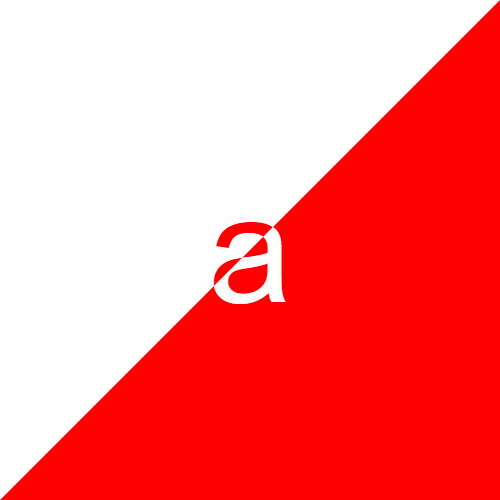
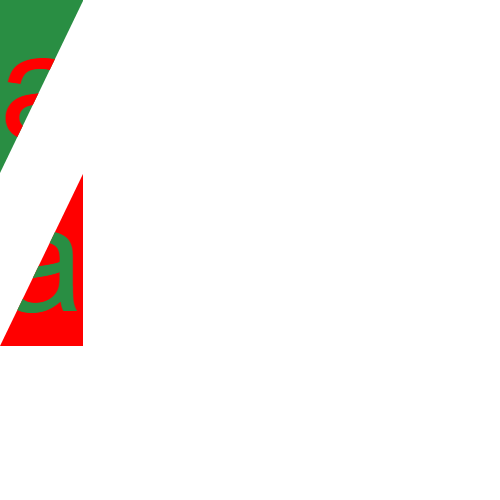
Working prototype with table and fonts

diff --git a/public/index.html b/public/index.html
@@ -5,53 +5,107 @@
     
   </head>
   <body style="display: inline-block;">
+    
     <div id="cover" style="float: left;">
-        <style>
-            body {
-                font-family: Arial, Helvetica, sans-serif;
-            }
-            td{
-              text-align: center;
-              padding: 10px;
-            }
-            #background_square{
-                background-color: blueviolet;
-                color: red;
-                width: 500px;
-                height: 500px;
-                text-align: center;
-                font-size: 150px;
-                position: absolute;
-                z-index: 1;
-                /* clip-path: polygon(0% 0%, 0% 100%, 100% 0%); */
-                /* clip-path: polygon(0 0, 100% 0, 100% 50%, 0 50%); */
-            }
-            
-            #foreground_square{
-                background-color: red;
-                color: blueviolet;
-                width: 500px;
-                height: 250px;
-                text-align: center;
-                font-size: 150px;
-                position: absolute;
-                padding-top: 250px;
-                z-index: 2;
-                /* clip-path: polygon(100% 0, 0% 100%, 100% 100%); */
-                /* clip-path: polygon(0 50%, 100% 50%, 100% 100%, 0% 100%); */
-            }
-            #bsc, #fsc{
-                margin: 0;
-                position: absolute;
-                top: 50%;
-                left: 50%;
-                -ms-transform: translate(-50%, -50%);
-                transform: translate(-50%, -50%);
-            }
-            #form_div{
-                padding-top: 600px;
-            }
-        </style>
+      <style>
+        textarea{
+         height: 500px;
+         width: 500px;
+         font-size: 150px;
+         text-align: center;
+        }
+       .autocomplete {
+         /*the container must be positioned relative:*/
+         position: relative;
+         display: inline-block;
+       }
+       input {
+         border: 1px solid transparent;
+         background-color: #f1f1f1;
+         padding: 10px;
+         font-size: 16px;
+       }
+       input[type=text] {
+         background-color: #f1f1f1;
+         width: 150px;
+       }
+       input[type=submit] {
+         background-color: DodgerBlue;
+         color: #fff;
+       }
+       .autocomplete-items {
+         position: absolute;
+         margin-top: -200px;
+         border: 1px solid #d4d4d4;
+         border-bottom: none;
+         border-top: none;
+         z-index: 199;
+         /*position the autocomplete items to be the same width as the container:*/
+         top: 100%;
+         left: 0;
+         right: 0;
+         width: 100%;
+       }
+       .autocomplete-items div {
+         padding: 10px;
+         cursor: pointer;
+         background-color: #fff;
+         border-bottom: 1px solid #d4d4d4;
+       }
+       .autocomplete-items div:hover {
+         /*when hovering an item:*/
+         background-color: #e9e9e9;
+       }
+       .autocomplete-active {
+         /*when navigating through the items using the arrow keys:*/
+         background-color: DodgerBlue !important;
+         color: #ffffff;
+       }
+                   body {
+                       font-family: Arial, Helvetica, sans-serif;
+                   }
+                   td{
+                     text-align: center;
+                     padding: 10px;
+                   }
+                   #background_square{
+                       background-color: blueviolet;
+                       color: red;
+                       width: 500px;
+                       height: 500px;
+                       text-align: center;
+                       font-size: 150px;
+                       position: absolute;
+                       z-index: 1;
+                       /* clip-path: polygon(0% 0%, 0% 100%, 100% 0%); */
+                       /* clip-path: polygon(0 0, 100% 0, 100% 50%, 0 50%); */
+                   }
+                   
+                   #foreground_square{
+                       background-color: red;
+                       color: blueviolet;
+                       width: 500px;
+                       height: 250px;
+                       text-align: center;
+                       font-size: 150px;
+                       position: absolute;
+                       padding-top: 250px;
+                       z-index: 2;
+                       /* clip-path: polygon(100% 0, 0% 100%, 100% 100%); */
+                       /* clip-path: polygon(0 50%, 100% 50%, 100% 100%, 0% 100%); */
+                   }
+                   #bsc, #fsc{
+                       margin: 0;
+                       position: absolute;
+                       top: 50%;
+                       left: 50%;
+                       -ms-transform: translate(-50%, -50%);
+                       transform: translate(-50%, -50%);
+                   }
+                   #form_div{
+                       padding-top: 600px;
+                   }
+               </style>
         <div id="background_square">
             <div id="bsc">
             
@@ -66,16 +120,20 @@
     <!-- <div id="form_div" style="float: right; margin-top: -500px;"> -->
     <div id="form_div" style="margin-left: 600px; margin-top: -600px;">
       <table>
-        <tr>  
+        
+        <tr>
+          <td>
+
+          </td>  
       <form action="">
          <td>
             
             <h3>Background</h3>
             
-            <input type="color" placeholder="color" id="b_color" value="#8a2be2" onchange="generate_cover()"><br>
+            <input type="color" placeholder="color" id="b_color" value="#8a2be2" onchange="generate_cover()" style="height: 50px; width: 150px;"><br>
             <textarea  placeholder="Text" id="b_text" onchange="generate_cover()"></textarea><br>
-            <input type="number" placeholder="font-size" id="b_size" onchange="generate_cover()"><br>
-            <input type="text" placeholder="font-family" id="b_family" onchange="generate_cover()"><br>
+            <input type="number" placeholder="font-size" id="b_size" onchange="generate_cover()" value="150"><br>
+            <input type="text" placeholder="font-family" id="b_family" onchange="generate_cover()" value="Arial"><br>
             <h5>Split</h5>
             <table>
               <tr>
@@ -104,13 +162,13 @@
          </td>
          <td>   
             <h3>Foreground</h3>
-            <input type="color" placeholder="color" id="f_color" value="#ff0000" onchange="generate_cover()"><br>
+            <input type="color" placeholder="color" id="f_color" value="#ff0000" onchange="generate_cover()" style="height: 50px; width: 150px;"><br>
            
             
             <!-- <div id="no_sync"> -->
                 <textarea type="text" placeholder="Text" id="f_text" onchange="generate_cover()"></textarea><br>
-                <input type="number" placeholder="font-size" id="f_size" onchange="generate_cover()"><br>
-                <input type="text" placeholder="font-family" id="f_family" onchange="generate_cover()"><br>
+                <input type="number" placeholder="font-size" id="f_size" onchange="generate_cover()" value="150"><br>
+                <input type="text" placeholder="font-family" id="f_family" onchange="generate_cover()" value="Arial"><br>
                 <h5>Split</h5>
                 <table>
                   <tr>
@@ -177,12 +235,16 @@
             bg.style.color = document.getElementById("f_color").value
             fr.style.color = document.getElementById("b_color").value
             bg.style.fontSize = document.getElementById("b_size").value+"px"
+            document.getElementById("b_text").style.fontSize = document.getElementById("b_size").value+"px"
             fr.style.fontSize = document.getElementById("f_size").value+"px"
+            document.getElementById("f_text").style.fontSize = document.getElementById("f_size").value+"px"
             bg.style.fontFamily = document.getElementById("b_family").value
+            document.getElementById("b_text").style.fontFamily = document.getElementById("b_family").value
             fr.style.fontFamily = document.getElementById("f_family").value
+            document.getElementById("f_text").style.fontFamily = document.getElementById("f_family").value
             document.getElementById("bsc").innerHTML = document.getElementById("b_text").value
             document.getElementById("fsc").innerHTML = document.getElementById("f_text").value
-            
+            console.log("generated")
         }
         update_split()
         function update_split(){
@@ -237,6 +299,110 @@
         }
         return serialized;
       }
+    </script>
+    <script>
+      // var countries = ["Afghanistan","Albania","Algeria","Andorra","Angola","Anguilla","Antigua &amp; Barbuda","Argentina","Armenia","Aruba","Australia","Austria","Azerbaijan","Bahamas","Bahrain","Bangladesh","Barbados","Belarus","Belgium","Belize","Benin","Bermuda","Bhutan","Bolivia","Bosnia &amp; Herzegovina","Botswana","Brazil","British Virgin Islands","Brunei","Bulgaria","Burkina Faso","Burundi","Cambodia","Cameroon","Canada","Cape Verde","Cayman Islands","Central Arfrican Republic","Chad","Chile","China","Colombia","Congo","Cook Islands","Costa Rica","Cote D Ivoire","Croatia","Cuba","Curacao","Cyprus","Czech Republic","Denmark","Djibouti","Dominica","Dominican Republic","Ecuador","Egypt","El Salvador","Equatorial Guinea","Eritrea","Estonia","Ethiopia","Falkland Islands","Faroe Islands","Fiji","Finland","France","French Polynesia","French West Indies","Gabon","Gambia","Georgia","Germany","Ghana","Gibraltar","Greece","Greenland","Grenada","Guam","Guatemala","Guernsey","Guinea","Guinea Bissau","Guyana","Haiti","Honduras","Hong Kong","Hungary","Iceland","India","Indonesia","Iran","Iraq","Ireland","Isle of Man","Israel","Italy","Jamaica","Japan","Jersey","Jordan","Kazakhstan","Kenya","Kiribati","Kosovo","Kuwait","Kyrgyzstan","Laos","Latvia","Lebanon","Lesotho","Liberia","Libya","Liechtenstein","Lithuania","Luxembourg","Macau","Macedonia","Madagascar","Malawi","Malaysia","Maldives","Mali","Malta","Marshall Islands","Mauritania","Mauritius","Mexico","Micronesia","Moldova","Monaco","Mongolia","Montenegro","Montserrat","Morocco","Mozambique","Myanmar","Namibia","Nauro","Nepal","Netherlands","Netherlands Antilles","New Caledonia","New Zealand","Nicaragua","Niger","Nigeria","North Korea","Norway","Oman","Pakistan","Palau","Palestine","Panama","Papua New Guinea","Paraguay","Peru","Philippines","Poland","Portugal","Puerto Rico","Qatar","Reunion","Romania","Russia","Rwanda","Saint Pierre &amp; Miquelon","Samoa","San Marino","Sao Tome and Principe","Saudi Arabia","Senegal","Serbia","Seychelles","Sierra Leone","Singapore","Slovakia","Slovenia","Solomon Islands","Somalia","South Africa","South Korea","South Sudan","Spain","Sri Lanka","St Kitts &amp; Nevis","St Lucia","St Vincent","Sudan","Suriname","Swaziland","Sweden","Switzerland","Syria","Taiwan","Tajikistan","Tanzania","Thailand","Timor L'Este","Togo","Tonga","Trinidad &amp; Tobago","Tunisia","Turkey","Turkmenistan","Turks &amp; Caicos","Tuvalu","Uganda","Ukraine","United Arab Emirates","United Kingdom","United States of America","Uruguay","Uzbekistan","Vanuatu","Vatican City","Venezuela","Vietnam","Virgin Islands (US)","Yemen","Zambia","Zimbabwe"];
+      function autocomplete(inp, arr) {
+  /*the autocomplete function takes two arguments,
+  the text field element and an array of possible autocompleted values:*/
+  var currentFocus;
+  /*execute a function when someone writes in the text field:*/
+  inp.addEventListener("input", function(e) {
+      var a, b, i, val = this.value;
+      /*close any already open lists of autocompleted values*/
+      closeAllLists();
+      if (!val) { return false;}
+      currentFocus = -1;
+      /*create a DIV element that will contain the items (values):*/
+      a = document.createElement("DIV");
+      a.setAttribute("id", this.id + "autocomplete-list");
+      a.setAttribute("class", "autocomplete-items");
+      /*append the DIV element as a child of the autocomplete container:*/
+      this.parentNode.appendChild(a);
+      /*for each item in the array...*/
+      for (i = 0; i < arr.length; i++) {
+        /*check if the item starts with the same letters as the text field value:*/
+        if (arr[i].substr(0, val.length).toUpperCase() == val.toUpperCase()) {
+          /*create a DIV element for each matching element:*/
+          b = document.createElement("DIV");
+          /*make the matching letters bold:*/
+          b.innerHTML = "<strong>" + arr[i].substr(0, val.length) + "</strong>";
+          b.innerHTML += arr[i].substr(val.length);
+          /*insert a input field that will hold the current array item's value:*/
+          b.innerHTML += "<input type='hidden' value='" + arr[i] + "'>";
+          /*execute a function when someone clicks on the item value (DIV element):*/
+              b.addEventListener("click", function(e) {
+              /*insert the value for the autocomplete text field:*/
+              inp.value = this.getElementsByTagName("input")[0].value;
+              /*close the list of autocompleted values,
+              (or any other open lists of autocompleted values:*/
+              closeAllLists();
+          });
+          a.appendChild(b);
+        }
+      }
+  });
+  /*execute a function presses a key on the keyboard:*/
+  inp.addEventListener("keydown", function(e) {
+      var x = document.getElementById(this.id + "autocomplete-list");
+      if (x) x = x.getElementsByTagName("div");
+      if (e.keyCode == 40) {
+        /*If the arrow DOWN key is pressed,
+        increase the currentFocus variable:*/
+        currentFocus++;
+        /*and and make the current item more visible:*/
+        addActive(x);
+      } else if (e.keyCode == 38) { //up
+        /*If the arrow UP key is pressed,
+        decrease the currentFocus variable:*/
+        currentFocus--;
+        /*and and make the current item more visible:*/
+        addActive(x);
+      } else if (e.keyCode == 13) {
+        /*If the ENTER key is pressed, prevent the form from being submitted,*/
+        e.preventDefault();
+        if (currentFocus > -1) {
+          /*and simulate a click on the "active" item:*/
+          if (x) x[currentFocus].click();
+        }
+      }
+  });
+  function addActive(x) {
+    /*a function to classify an item as "active":*/
+    if (!x) return false;
+    /*start by removing the "active" class on all items:*/
+    removeActive(x);
+    if (currentFocus >= x.length) currentFocus = 0;
+    if (currentFocus < 0) currentFocus = (x.length - 1);
+    /*add class "autocomplete-active":*/
+    x[currentFocus].classList.add("autocomplete-active");
+  }
+  function removeActive(x) {
+    /*a function to remove the "active" class from all autocomplete items:*/
+    for (var i = 0; i < x.length; i++) {
+      x[i].classList.remove("autocomplete-active");
+    }
+  }
+  function closeAllLists(elmnt) {
+    /*close all autocomplete lists in the document,
+    except the one passed as an argument:*/
+    var x = document.getElementsByClassName("autocomplete-items");
+    for (var i = 0; i < x.length; i++) {
+      if (elmnt != x[i] && elmnt != inp) {
+      x[i].parentNode.removeChild(x[i]);
+    }
+  }
+}
+/*execute a function when someone clicks in the document:*/
+document.addEventListener("click", function (e) {
+    closeAllLists(e.target);
+});
+}
+var fonts = ["Helvetica", "Arial", "Arial Black", "Verdana", "Tahoma", "Trebuchet MS", "Impact", "Gill Sans", "Times New Roman", "Georgia", "Palatino", "Baskerville", "Andalé Mono", "Courier", "Lucida", "Monaco", "Bradley Hand", "Brush Script MT", "Luminari", "Comic Sans MS"]
+
+autocomplete(document.getElementById("b_family"), fonts)
+autocomplete(document.getElementById("f_family"), fonts)
+
     </script>
   </body>
 </html>

diff --git a/app.js b/app.js
@@ -18,27 +18,27 @@ app.use(bodyParser.urlencoded({
 app.use("/", express.static("public"));
 
   app.post('/submit', (req, res) => {
-    const content = req.body.content;
-    const styles = req.body.styles;
-    const file_name = req.body.file_name;
-    // Do something with the content and styles (e.g. generate an image)
-    const puppeteer = require('puppeteer');
+          const content = req.body.content;
+          const styles = req.body.styles;
+          const file_name = req.body.file_name;
+          // Do something with the content and styles (e.g. generate an image)
+          const puppeteer = require('puppeteer');
 
-(async () => {
-  const browser = await puppeteer.launch({
-    defaultViewport: {width: 500, height: 500}
-    
-});
-  toprint = `<style> body{ position: absolute;
-    left: -8px;
-    top: -8px;
-    overflow: hidden;} #recived { ${styles} }</style> <div id='recived'>${content}</div>`
-  const page = await browser.newPage();
-  await page.setContent(toprint);
-  await page.screenshot({ path: `${file_name}.png`});
-  await browser.close();
-  res.send("Zapisano" + toprint)
-})();
+      (async () => {
+        const browser = await puppeteer.launch({
+          defaultViewport: {width: 500, height: 500}
+          
+      });
+        toprint = `<style> body{ position: absolute;
+          left: -8px;
+          top: -8px;
+          overflow: hidden;} #recived { ${styles} }</style> <div id='recived'>${content}</div>`
+        const page = await browser.newPage();
+        await page.setContent(toprint);
+        await page.screenshot({ path: `${file_name}.png`});
+        await browser.close();
+        res.send("Zapisano" + toprint)
+      })();
 
   });
   
